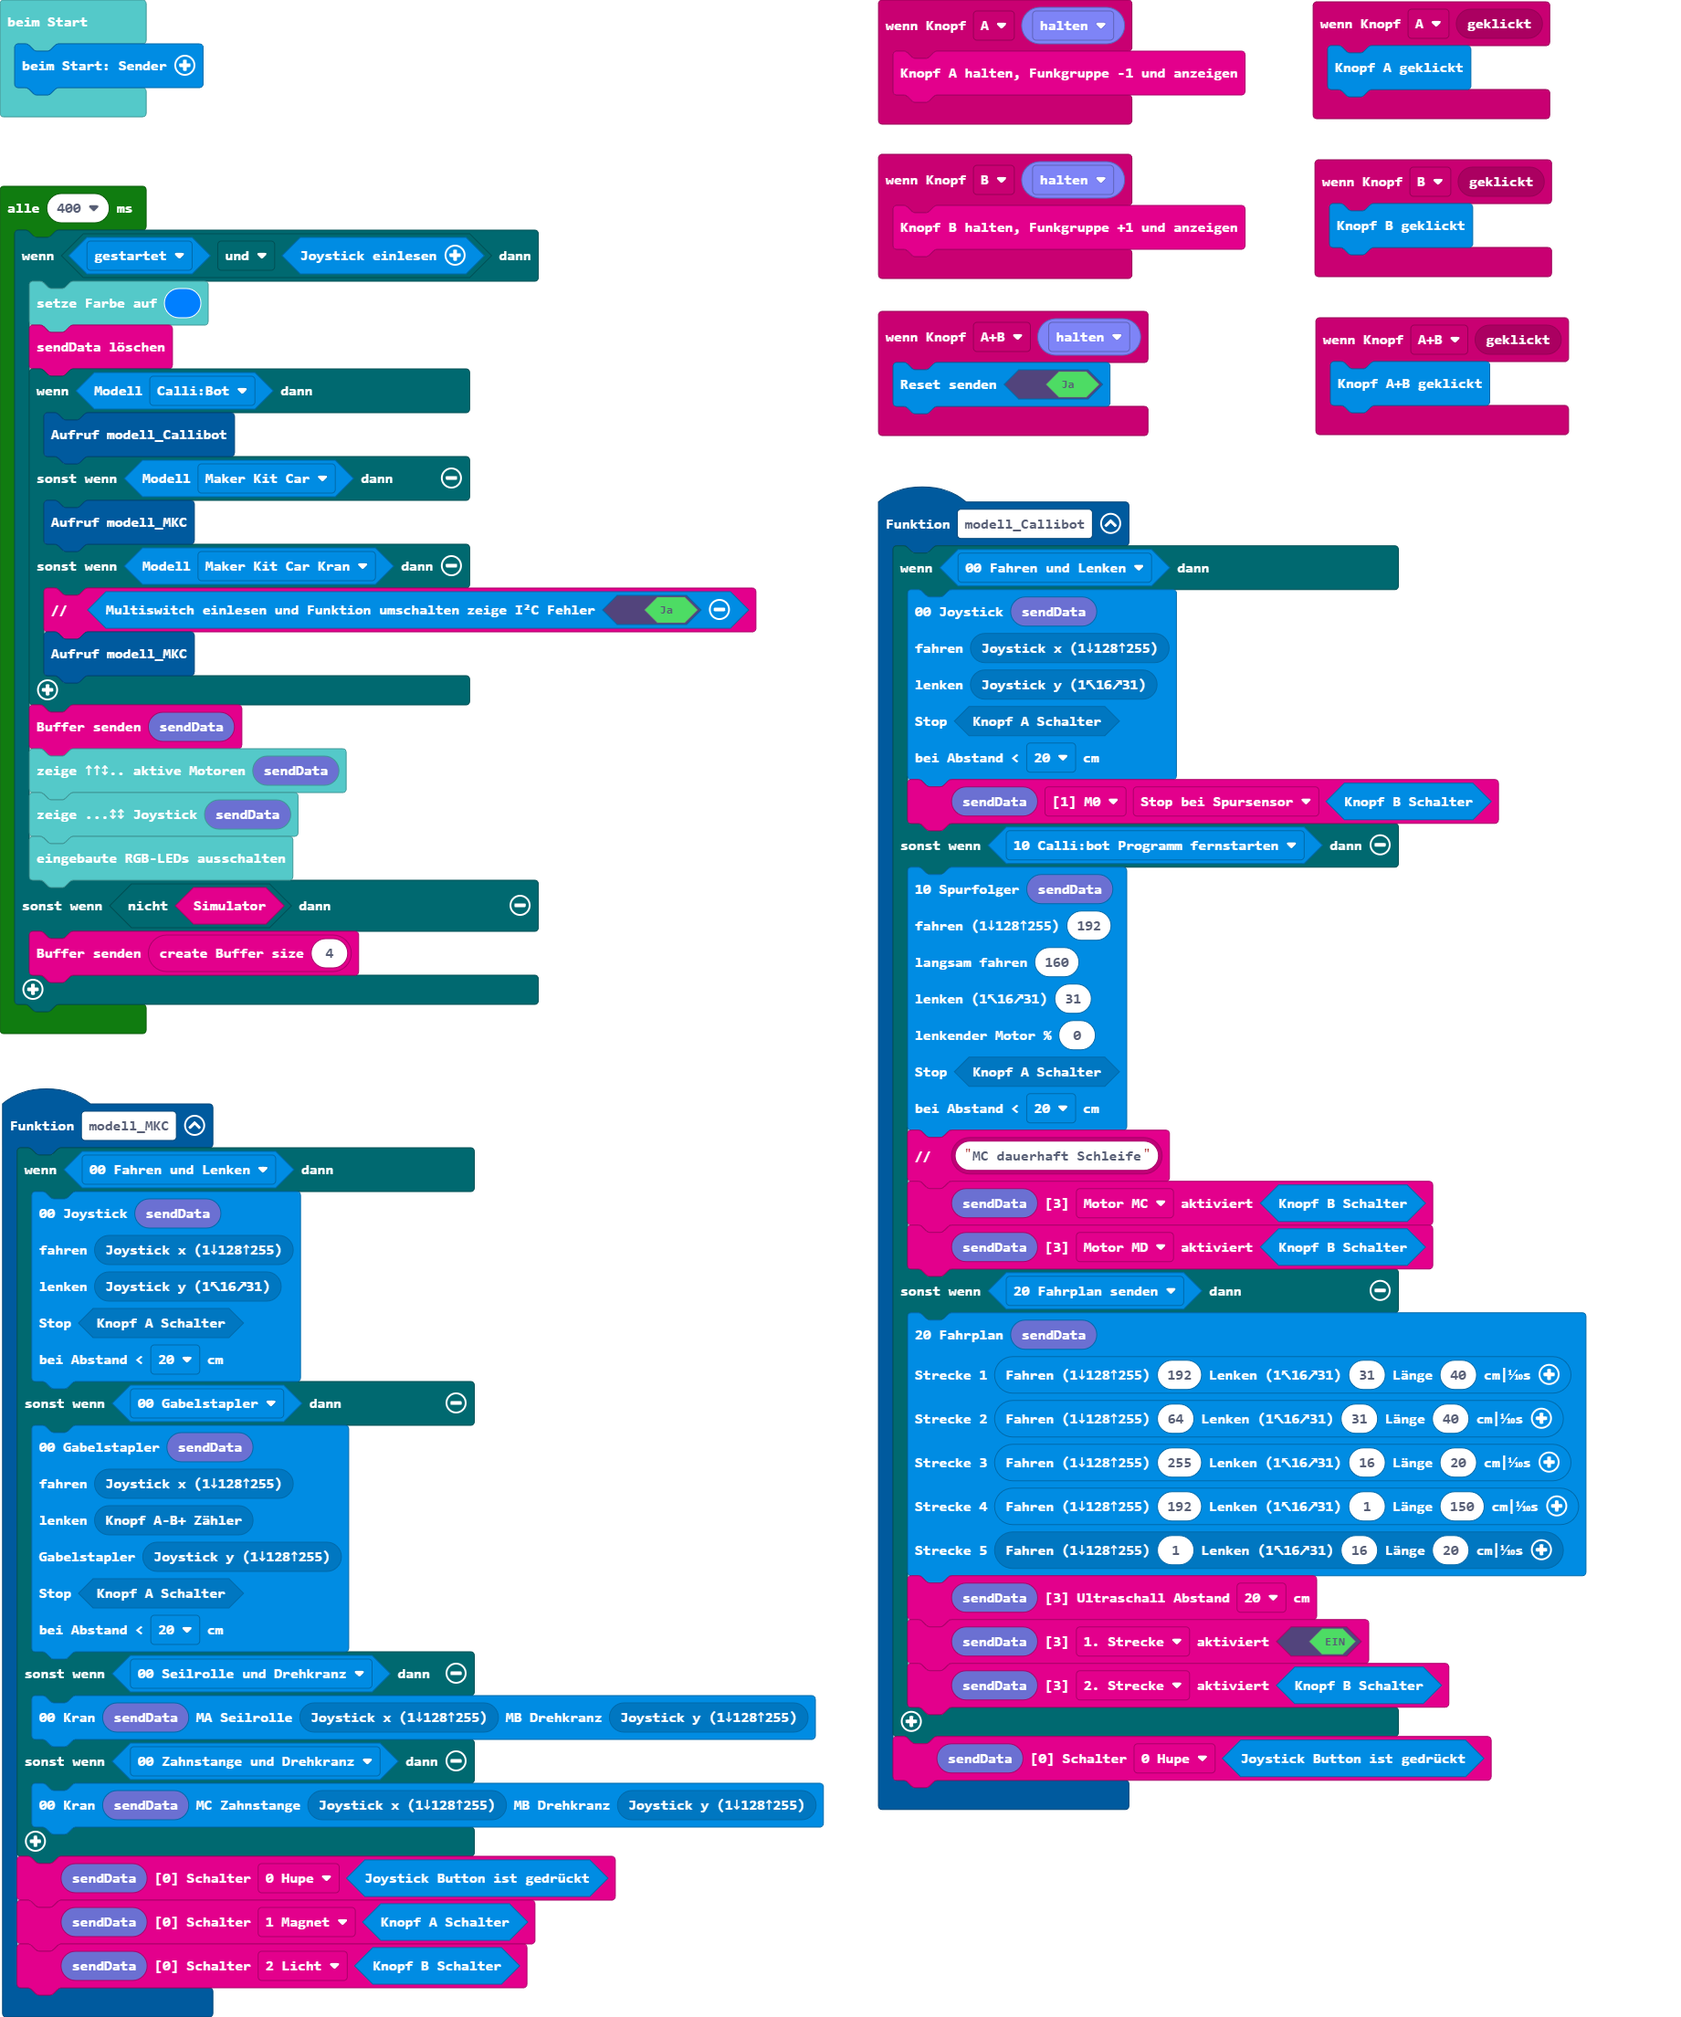
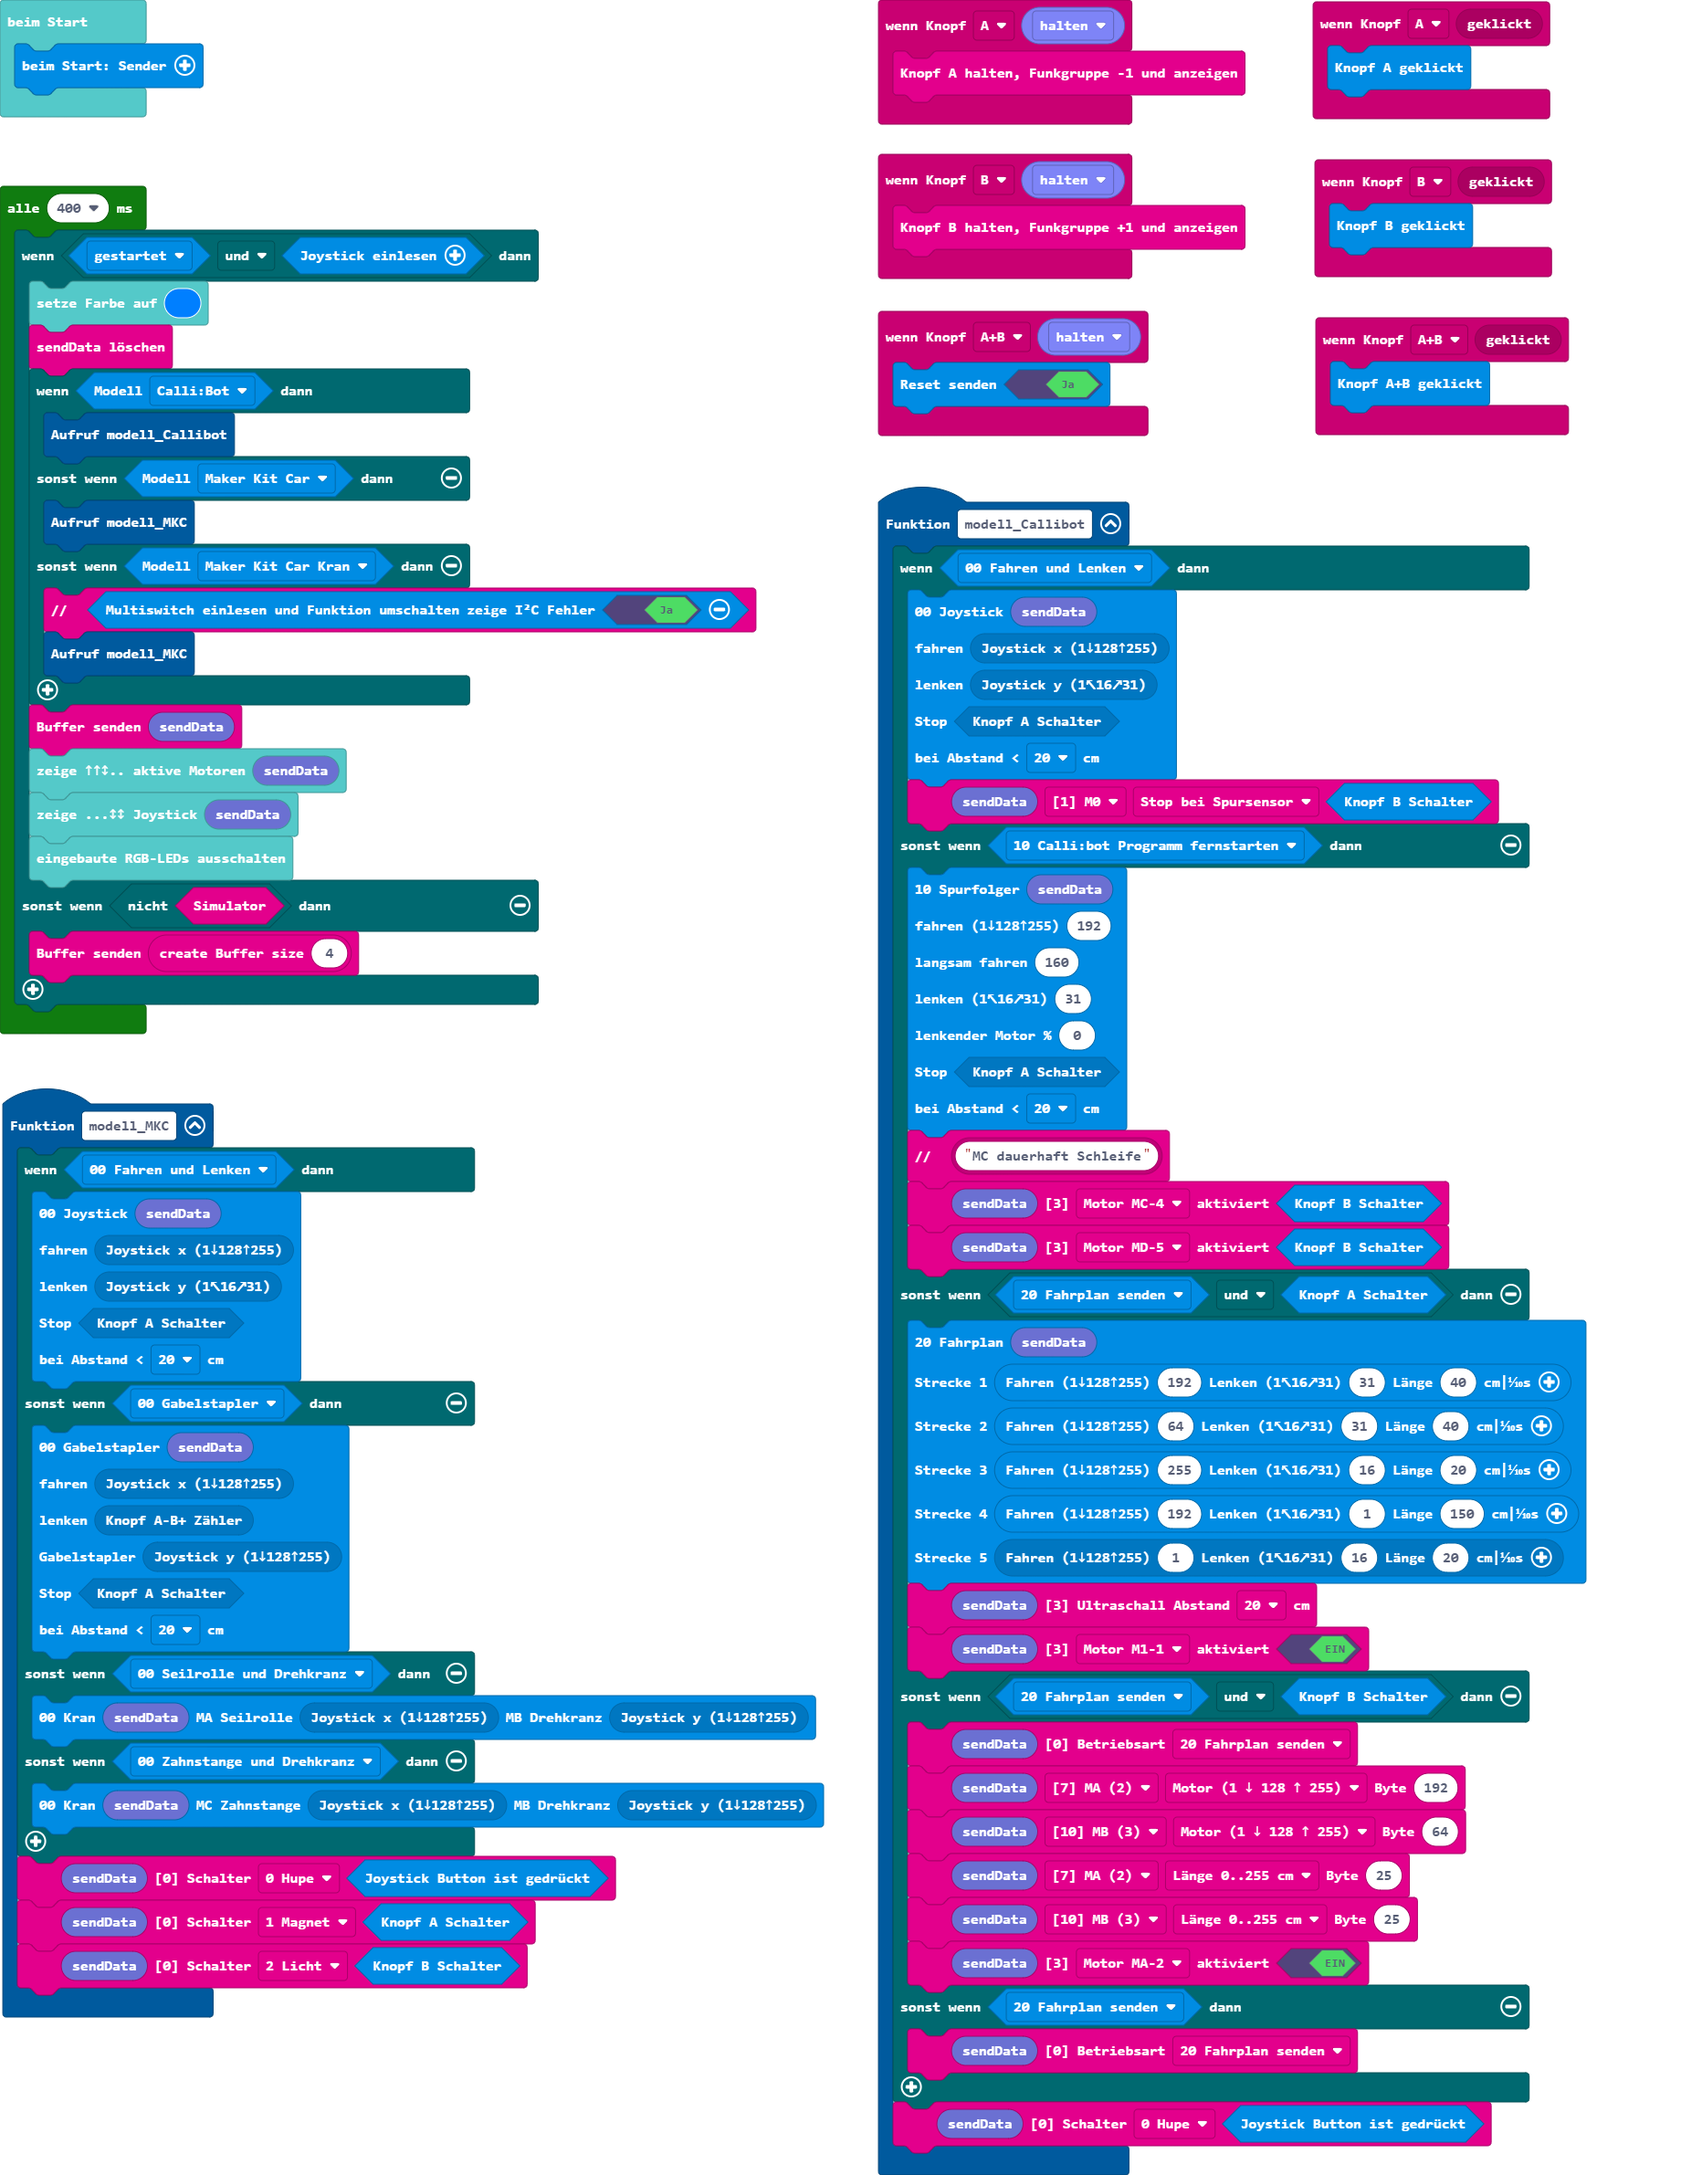
Aktualisiere pxt.json, main.blocks, main.ts

diff --git a/main.ts b/main.ts
@@ -21,7 +21,7 @@ function modell_Callibot () {
         btf.comment(btf.btf_text("MC dauerhaft Schleife"))
         btf.setaktiviert(btf.btf_sendBuffer19(), btf.e3aktiviert.mc, sender.sender_ButtonB_Switch())
         btf.setaktiviert(btf.btf_sendBuffer19(), btf.e3aktiviert.md, sender.sender_ButtonB_Switch())
-    } else if (sender.isFunktion(sender.eFunktion.m1abcd_fahrplan)) {
+    } else if (sender.isFunktion(sender.eFunktion.m1abcd_fahrplan) && sender.sender_ButtonA_Switch()) {
         sender.send20Strecken(
         btf.btf_sendBuffer19(),
         sender.sender_Strecke(192, 31, 40),
@@ -31,8 +31,16 @@ function modell_Callibot () {
         sender.sender_Strecke(1, 16, 20)
         )
         btf.setAbstand(btf.btf_sendBuffer19(), btf.e3Abstand.u2)
-        btf.setaktiviert(btf.btf_sendBuffer19(), btf.e3aktiviert.f1, true)
-        btf.setaktiviert(btf.btf_sendBuffer19(), btf.e3aktiviert.f2, sender.sender_ButtonB_Switch())
+        btf.setaktiviert(btf.btf_sendBuffer19(), btf.e3aktiviert.m1, true)
+    } else if (sender.isFunktion(sender.eFunktion.m1abcd_fahrplan) && sender.sender_ButtonB_Switch()) {
+        btf.setBetriebsart(btf.btf_sendBuffer19(), btf.e0Betriebsart.p2Fahrplan)
+        btf.setByte(btf.btf_sendBuffer19(), btf.eBufferPointer.ma, btf.eBufferOffset.b0_Motor, 192)
+        btf.setByte(btf.btf_sendBuffer19(), btf.eBufferPointer.mb, btf.eBufferOffset.b0_Motor, 64)
+        btf.setByte(btf.btf_sendBuffer19(), btf.eBufferPointer.ma, btf.eBufferOffset.b2_Fahrstrecke, 25)
+        btf.setByte(btf.btf_sendBuffer19(), btf.eBufferPointer.mb, btf.eBufferOffset.b2_Fahrstrecke, 25)
+        btf.setaktiviert(btf.btf_sendBuffer19(), btf.e3aktiviert.ma, true)
+    } else if (sender.isFunktion(sender.eFunktion.m1abcd_fahrplan)) {
+        btf.setBetriebsart(btf.btf_sendBuffer19(), btf.e0Betriebsart.p2Fahrplan)
     }
     btf.setSchalter(btf.btf_sendBuffer19(), btf.e0Schalter.b0, sender.joystickButtonPosition())
 }
